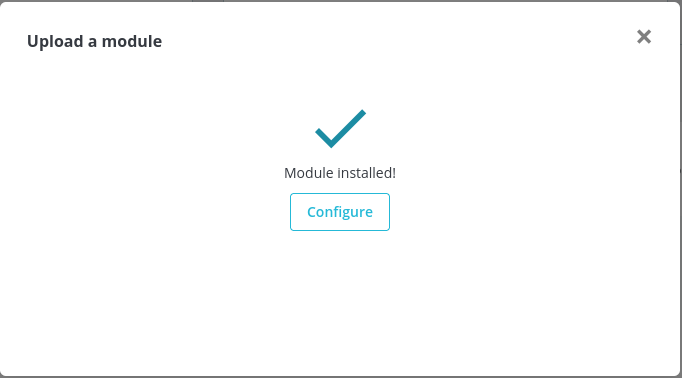
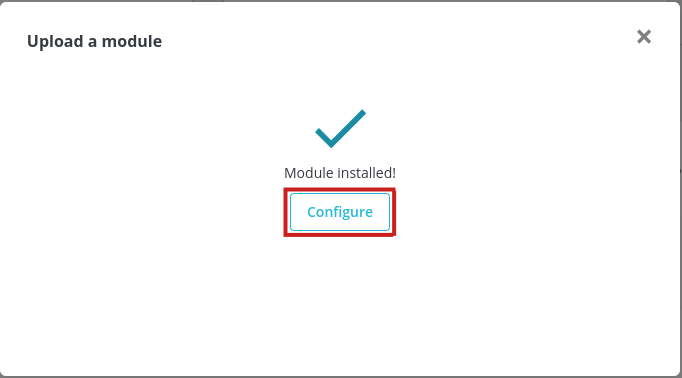
PES-1550 docs update - configuration

Changed region(s): [[0.4003, 0.4947, 0.585, 0.6402]]

diff --git a/docs/cz/configuration.md b/docs/cz/configuration.md
@@ -1,0 +1,30 @@
+### Konfigurace
+
+Po úspěšné instalaci klikněte na tlačítko **Konfigurovat** nebo v hlavním menu Zásilkovna -> Konfigurace. 
+
+![screen1](../assets/module_installed.png)
+![screen1](../assets/menu_configuration.png)
+
+#### Nastavení modulu
+
+V případě, že nemáte uživatelský účet na stránkách Zásilkovny, je možné v rámci testování funkcionality modulu či podávání zásilek požádat o testovací účet na emailu Zákaznického servisu: [technicka.podpora@zasilkovna.cz](mailto:technicka.podpora@zasilkovna.cz):
+
+- **API heslo**  - vaše API heslo naleznete v [klientské sekci Zásilkovny](https://client.packeta.com/support/) v části **Klientská podpora**
+- **Označení odesílatele** - označení odesílatele které máte nastaveno v [klientské sekci](https://client.packeta.com/senders/) v seznamu odesílatelů
+
+Tyto dva údaje jsou povinné a klíčové pro správné fungování modulu a komunikaci mezi vaším e-shopem a Zásilkovnou.
+
+- **Formát štítku Zásilkovny** - vyberte formát štítku, který chcete používat
+- **Formát štítku dopravce** - vyberte formát štítku, který chcete používat
+- **Jako číslo objednávky u zásilek uvádět** - vyberte, zda se má při exportu použít id nebo kód objednávky jako číslo objednávky
+- **Automatické otevření widgetu v košíku** - pokud je zaškrtnuto, widget pro výběr výdejního místa se v košíku automaticky otevře 
+- **Výchozí hodnota zásilky** - zadejte výchozí hodnotu zásilky, pokud je cena objednávky nulová
+- **Převod měn** - vyberte, zda chcete převádět ceny pomocí konverze měn PrestaShopu nebo zda budete odesílat do Zásilkovny hodnotu dobírky v měně objednávky 
+- **Výchozí hmotnost balíku v kg** - zadejte výchozí hmotnost zásilky, pokud je hmotnost zboží objednávky nula
+- **Výchozí hmotnost obalového materiálu v kg** - zadejte výchozí hmotnost obalového materiálu v kg, pokud není hmotnost zboží objednávky nulová, bude tato hodnota přičtena k hmotnosti zboží
+- **Platební metody reprezentující dobírku** - z výběru platebních metod vyberte ty, které představují platbu na dobírku
+
+Změněná nastavení je potřeba uložit kliknutím na tlačítko **Uložit**.
+![screen2](../assets/configuration_save.png)
+
+[Konfigurace dopravců &#8594;](carriersConfiguration.md) 
